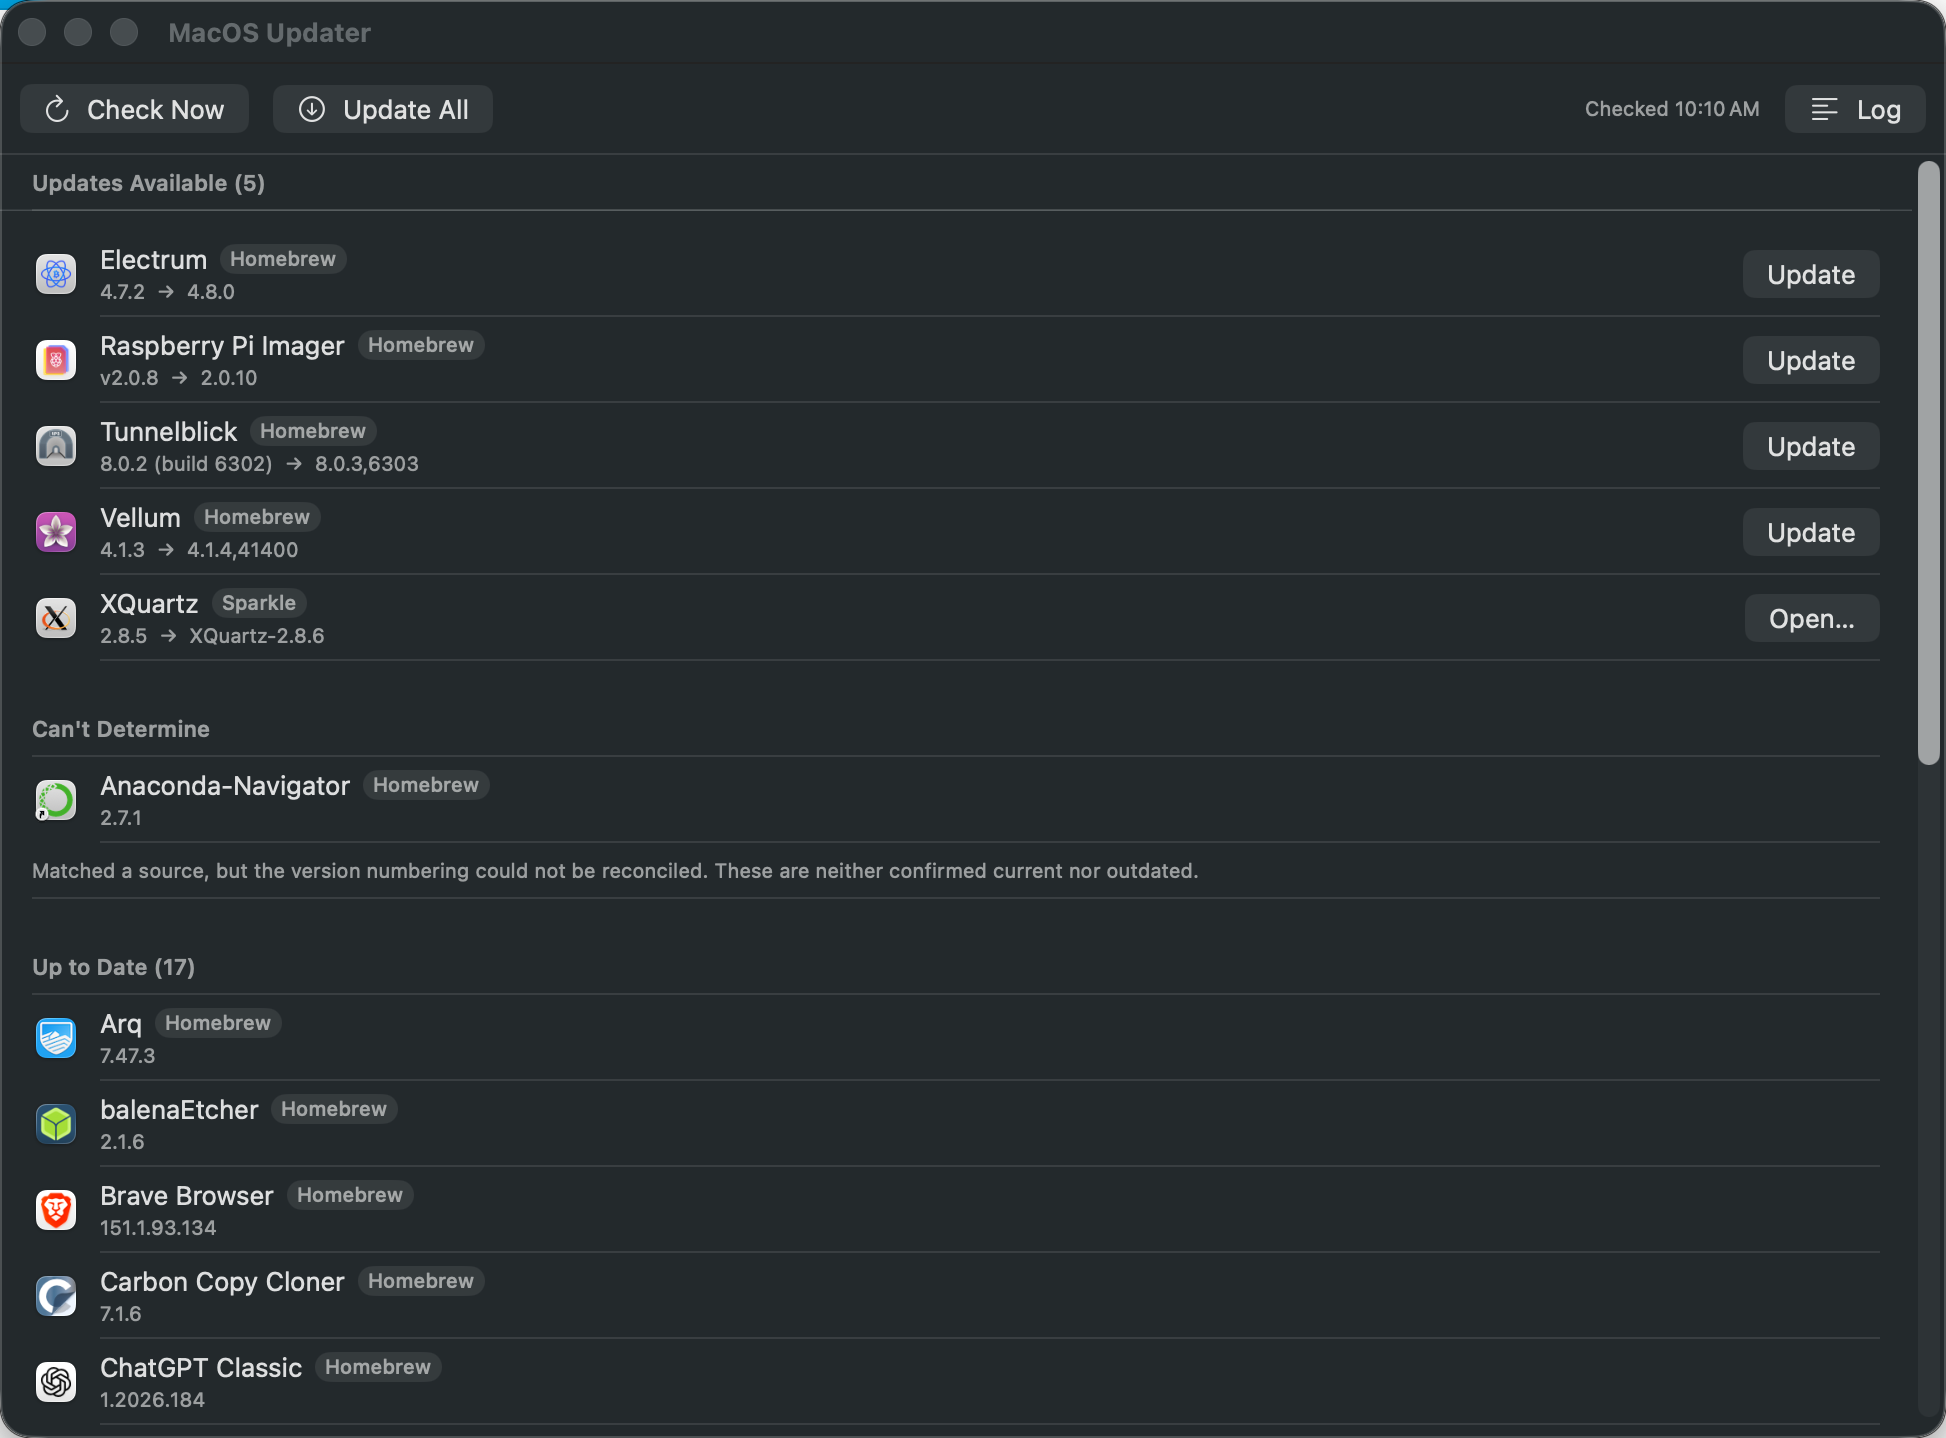
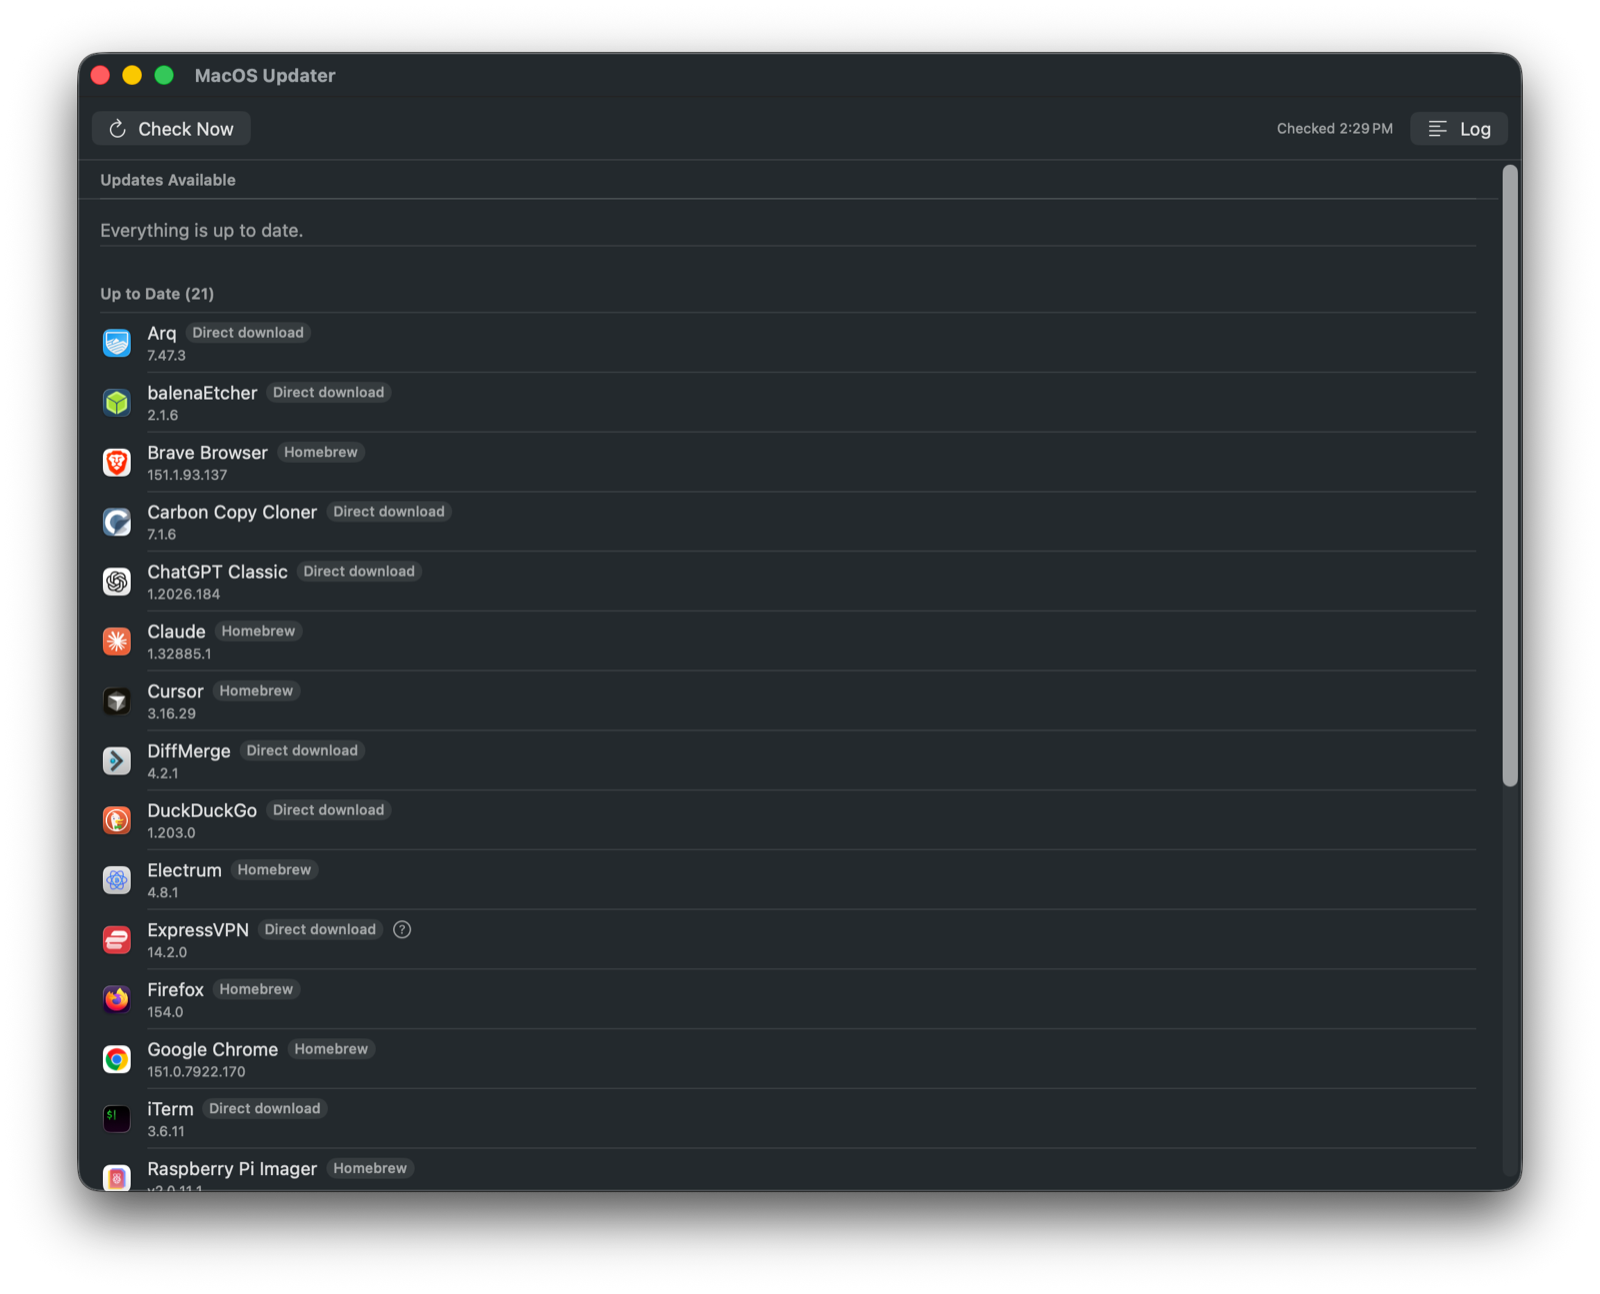
README: show the main window, screenshotted on 1.2.3
The only image was the menu bar strip, which shows the badge but nothing of
what the app actually does. The window screenshot that existed was taken at
1.2.0, before source badges distinguished Homebrew-managed apps from direct
downloads, so every row in it claimed "Homebrew" — inaccurate now.

Retaken against the installed 1.2.3 build and placed above the fold, with a
short caption for what the window shows: every scanned app, its source, and
its installed version.

Changed region(s): [[0.0, 0.0, 1.0, 1.0]]

diff --git a/README.md b/README.md
@@ -8,6 +8,17 @@ third-party apps installed by direct download — and installs them by delegatin
 — signed and notarized; open it and drag the app to Applications. Requires macOS 14
 or later, plus [Homebrew](https://brew.sh) for most update sources.
 
+![The MacOS Updater window, listing each scanned app with its source and version](docs/mainwindow.png)
+
+The window (menu bar → **Open Window**) lists every app it checked, not just the
+outdated ones — each row carries the source it was identified from and the version
+actually installed, so a claim of "up to date" can be verified rather than trusted.
+Apps needing an update appear at the top with an **Update** button; **Check Now**
+rescans, and **Log** shows the exact commands and their output.
+
+In the menu bar itself the app is a single status item, badged with the number of
+apps behind:
+
 ![status item](docs/menubar.png)
 
 ## Why this is not trivial
